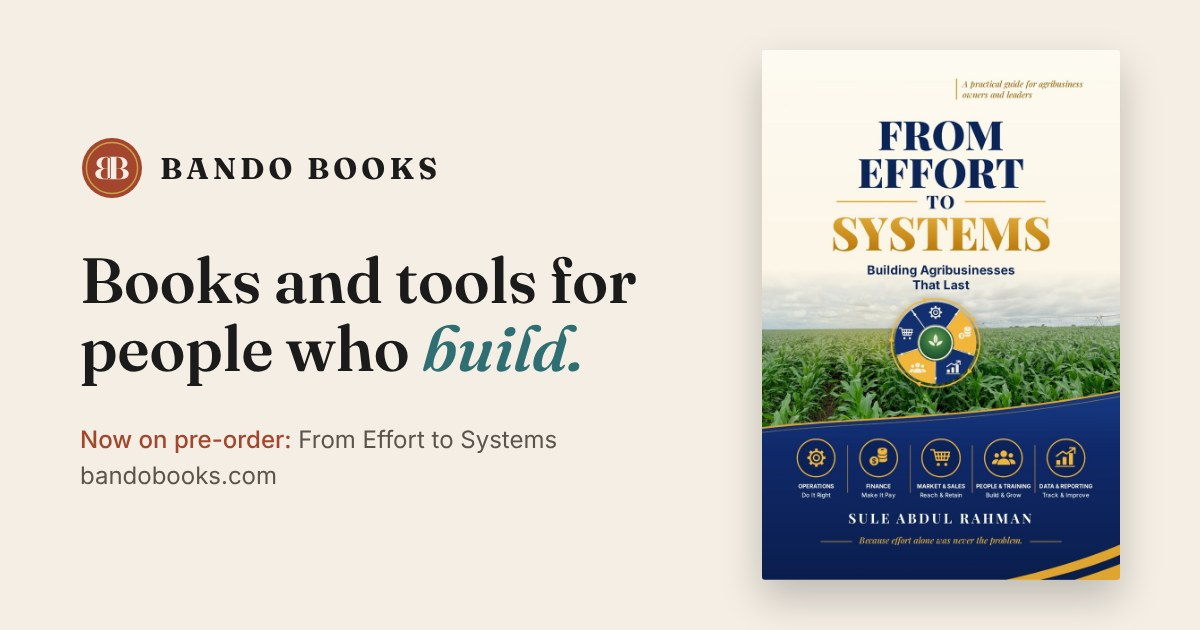
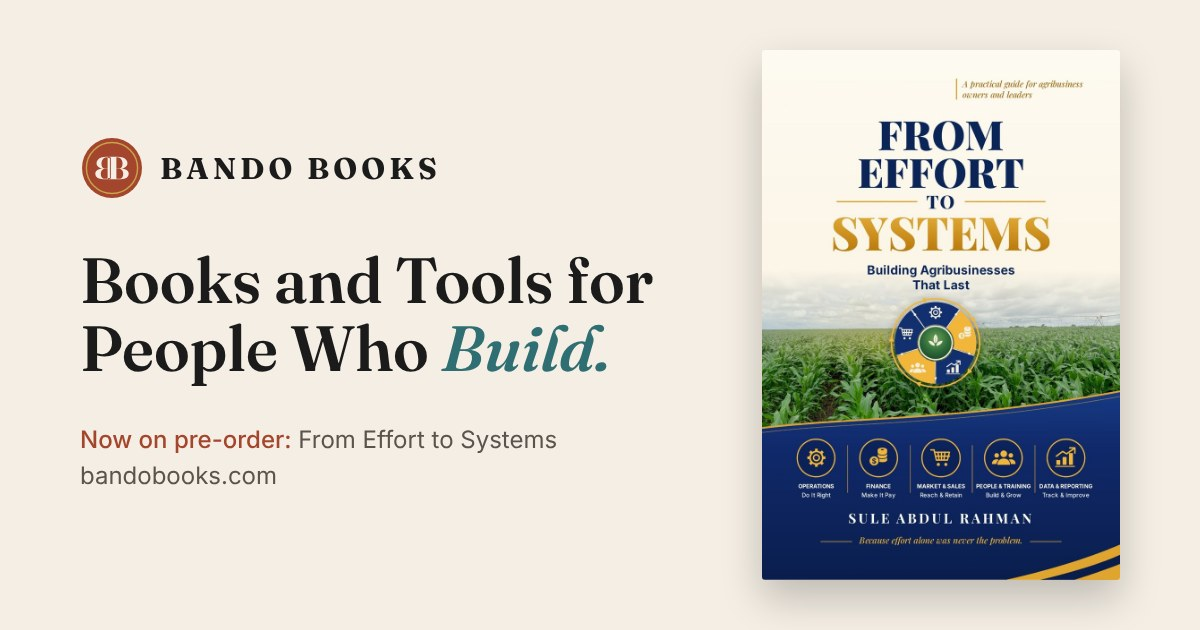
Capitalise tagline: Books and Tools for People Who Build
Claude-Session: https://claude.ai/code/session_01MVFcWJVfgUHbFRDW3x1Dkw

Changed region(s): [[0.0617, 0.5127, 0.5242, 0.6333], [0.3083, 0.3921, 0.555, 0.4825]]

diff --git a/index.html b/index.html
@@ -4,18 +4,18 @@
 <meta charset="utf-8">
 <meta name="viewport" content="width=device-width, initial-scale=1, viewport-fit=cover">
 <meta name="description" content="Bando Books publishes practical books, manuals, templates and training documents for people running businesses, teams and organisations in West Africa.">
-<title>Bando Books — Books and tools for people who build</title>
+<title>Bando Books — Books and Tools for People Who Build</title>
 <link rel="canonical" href="https://bandobooks.com/">
 <meta property="og:type" content="website">
 <meta property="og:site_name" content="Bando Books">
-<meta property="og:title" content="Bando Books — Books and tools for people who build">
+<meta property="og:title" content="Bando Books — Books and Tools for People Who Build">
 <meta property="og:description" content="Bando Books publishes practical books, manuals, templates and training documents for people running businesses, teams and organisations in West Africa.">
 <meta property="og:url" content="https://bandobooks.com/">
-<meta property="og:image" content="https://bandobooks.com/assets/share.jpg?v=2">
+<meta property="og:image" content="https://bandobooks.com/assets/share.jpg?v=3">
 <meta property="og:image:width" content="1200">
 <meta property="og:image:height" content="630">
 <meta name="twitter:card" content="summary_large_image">
-<meta name="twitter:title" content="Bando Books — Books and tools for people who build">
+<meta name="twitter:title" content="Bando Books — Books and Tools for People Who Build">
 <meta name="twitter:description" content="Bando Books publishes practical books, manuals, templates and training documents for people running businesses, teams and organisations in West Africa.">
 <link rel="icon" type="image/svg+xml" href="assets/logo/favicon.svg">
 <link rel="apple-touch-icon" href="assets/apple-touch-icon.png">
@@ -27,7 +27,7 @@
       "@type": "Organization",
       "@id": "https://bandobooks.com/#org",
       "name": "Bando Books",
-      "slogan": "Books and tools for people who build.",
+      "slogan": "Books and Tools for People Who Build.",
       "description": "Bando Books publishes practical books, manuals, templates and training documents for people running businesses, teams and organisations in West Africa.",
       "url": "https://bandobooks.com/",
       "logo": "https://bandobooks.com/assets/logo/seal.svg"
@@ -299,7 +299,7 @@ footer .contact{flex-basis:100%}
 
 <footer><div class="wrap">
   <span>&copy; 2026 Bando Books · Registered business name, Accra, Ghana · <a href="https://suleabdulrahman.org/">Author site</a></span>
-  <span>Books and tools for people who build.</span>
+  <span>Books and Tools for People Who Build.</span>
   <span class="contact">Readers: <a href="mailto:hello@bandobooks.com">hello@bandobooks.com</a> · Orders: <a href="mailto:orders@bandobooks.com">orders@bandobooks.com</a></span>
 </div></footer>
 
